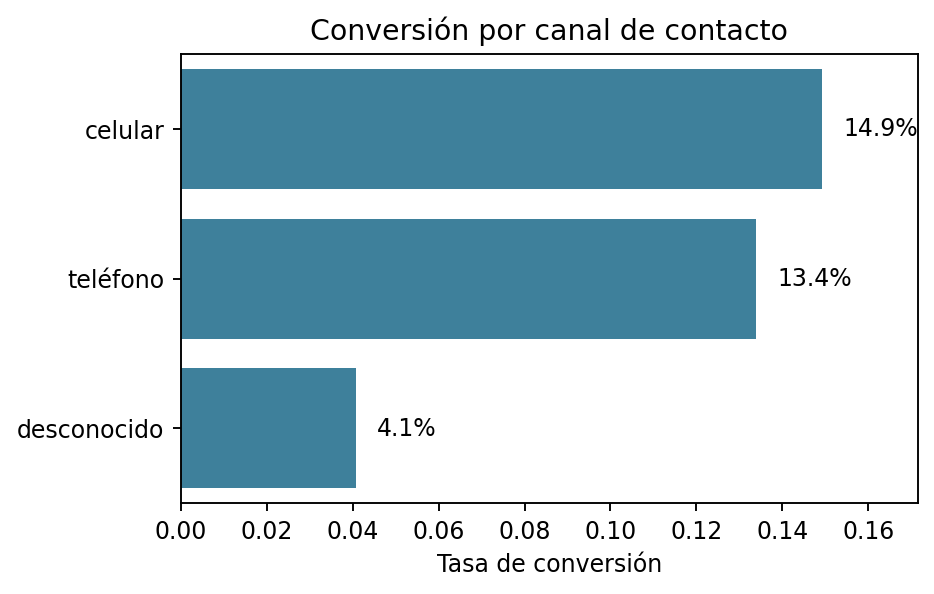
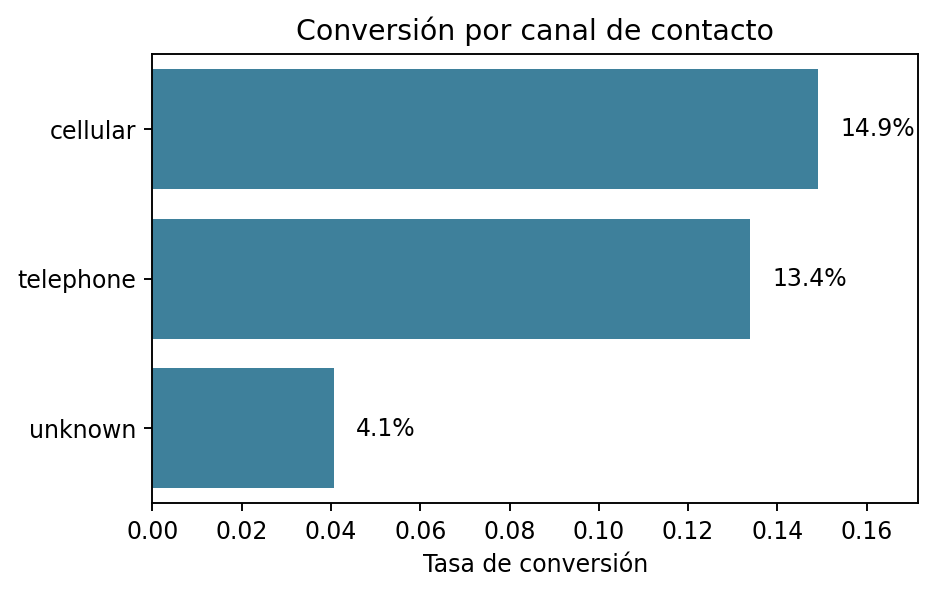
analisis de respuesta de clientes según su ingreso

diff --git a/informe_analisis.html b/informe_analisis.html
@@ -355,12 +355,12 @@
       <article class="card span-4 metric metric-card green">
         <span class="label">Clientes interesados</span>
         <span class="value green">5.285</span>
-        <span class="hint">Clientes con respuesta <strong>yes</strong>.</span>
+        <span class="hint">Clientes con respuesta <strong>"Si"</strong>.</span>
       </article>
       <article class="card span-4 metric metric-card red">
         <span class="label">Clientes no interesados</span>
         <span class="value red">39.904</span>
-        <span class="hint">Clientes con respuesta <strong>no</strong>.</span>
+        <span class="hint">Clientes con respuesta <strong>"No"</strong>.</span>
       </article>
     </section>
 
@@ -373,12 +373,33 @@
       <article class="card metric metric-card orange">
         <span class="label">Tasa de conversión</span>
         <span class="value">11.7%</span>
-        <span class="hint">Solo 1 de cada 9 dijo sí.</span>
+        <span class="hint">Solo 1 de cada 9 clientes dijo sí.</span>
       </article>
       <article class="card metric metric-card">
         <span class="label">Filas finales</span>
         <span class="value">45.189</span>
         <span class="hint">Después de limpiar la base.</span>
+      </article>
+    </section>
+
+     <section class="grid" style="margin-top: 20px;">
+      <article class="card span-12">
+        <span class="badge">Limpieza de datos</span>
+        <h2>¿Qué se hizo con la base?</h2>
+        <div class="cleaning-layout">
+          <div>
+            <ul class="list">
+              <li>Se eliminaron <strong>8</strong> filas con valores nulos.</li>
+              <li>Se eliminaron <strong>4</strong> filas duplicadas.</li>
+              <li>Se filtraron <strong>14</strong> registros con valores poco coherentes.</li>
+              <li>El dataset final quedó con <strong>45.189</strong> filas y <strong>17</strong> columnas. Eliminandose <strong>26 filas</strong> en total.</li>
+            </ul>
+            <p class="note">La gráfica resume el volumen eliminado por cada etapa de limpieza y ayuda a ver rápidamente dónde se hicieron los ajustes más importantes.</p>
+          </div>
+          <figure class="cleaning-figure">
+            <img class="chart small" src="Data/Processed/grafica_limpieza_barras.png" alt="Gráfica de barras con registros eliminados por limpieza" />
+          </figure>
+        </div>
       </article>
     </section>
 
@@ -401,11 +422,37 @@
       </article>
     </section>
 
+  <section class="grid" style="margin-top: 20px;">
+  <article class="card span-12">
+    <span class="badge">Ingresos vs Respuesta</span>
+    <h2>Conversión por rangos de ingresos</h2>
+    <div class="chart-card">
+      <h3>Tasa de conversión según rango de ingresos</h3>
+      <img class="chart" src="Data/Processed/grafica_conversion_rangos_ingresos.png" 
+           alt="Gráfica de conversión por rangos de ingresos" />
+      <p class="note">
+        Esta gráfica muestra cómo varía la tasa de conversión de clientes según su rango de ingresos (balance). 
+        Los intervalos permiten identificar qué segmentos económicos tienen mayor probabilidad de aceptar la oferta del banco. 
+        Por ejemplo, se observa si los clientes con ingresos bajos, medios o altos muestran diferencias significativas en su disposición a responder “Sí”.
+      </p>
+    </div>
+  </article>
+</section>
+
     <section class="grid" style="margin-top: 20px;">
       <article class="card span-12">
         <span class="badge">Tabla de conversión</span>
         <h2>Perfiles laborales con mejor respuesta</h2>
-        <table>
+        <p>Durante el análisis del dataset bancario, se calculó la tasa de conversión por perfil laboral, es decir, el porcentaje de clientes que respondieron afirmativamente a la oferta del producto.</p>
+
+        <p>Los resultados muestran que ciertos perfiles destacan por su mayor disposición a aceptar la propuesta:</p>
+
+        <ul>
+          <li><strong>Estudiantes:</strong> Presentan una tasa de conversión elevada, lo que indica que este grupo es más receptivo a las campañas bancarias. Probablemente se deba a que buscan productos financieros iniciales para comenzar su vida económica.</li>
+          <li><strong>Jubilados:</strong> También muestran una alta conversión. Este segmento suele valorar la seguridad y beneficios adicionales que ofrecen los productos bancarios, lo que los hace más propensos a aceptar.</li>
+          <li><strong>Desempleados:</strong> Muestran una tasa de conversión moderada, lo que indica que este grupo puede ser un objetivo interesante para campañas específicas.</li>
+        </ul></u>
+          <table>
           <thead>
             <tr>
               <th>Perfil laboral</th>
@@ -453,28 +500,6 @@
         </div>
       </article>
     </section>
-
-    <section class="grid" style="margin-top: 20px;">
-      <article class="card span-12">
-        <span class="badge">Limpieza de datos</span>
-        <h2>¿Qué se hizo con la base?</h2>
-        <div class="cleaning-layout">
-          <div>
-            <ul class="list">
-              <li>Se eliminaron <strong>8</strong> filas con valores nulos.</li>
-              <li>Se eliminaron <strong>4</strong> filas duplicadas.</li>
-              <li>Se filtraron <strong>14</strong> registros con valores poco coherentes.</li>
-              <li>El dataset final quedó con <strong>45.189</strong> filas y <strong>17</strong> columnas. Eliminandose <strong>26 filas</strong> en total.</li>
-            </ul>
-            <p class="note">La gráfica resume el volumen eliminado por cada etapa de limpieza y ayuda a ver rápidamente dónde se hicieron los ajustes más importantes.</p>
-          </div>
-          <figure class="cleaning-figure">
-            <img class="chart small" src="Data/Processed/grafica_limpieza_barras.png" alt="Gráfica de barras con registros eliminados por limpieza" />
-          </figure>
-        </div>
-      </article>
-    </section>
-
 
     <section class="grid" style="margin-top: 20px;">
       <article class="card span-12">

diff --git a/taller_pandas.py b/taller_pandas.py
@@ -2,31 +2,27 @@ import pandas as pd
 import matplotlib.pyplot as plt
 import seaborn as sns
 
+print("Librerías cargadas correctamente...")
+
 
 COLUMNAS_CATEGORICAS = [
-    "job",
-    "marital",
-    "education",
-    "default",
-    "housing",
-    "loan",
-    "contact",
-    "month",
-    "poutcome",
-    "y",
+    "job", "marital", "education", "default", "housing",
+    "loan", "contact", "month", "poutcome", "y",
 ]
 
+# -------------------------------
+# Funciones principales
+# -------------------------------
 
 def cargar_datos(ruta_entrada):
     try:
-        return pd.read_csv(ruta_entrada) 
+        return pd.read_csv(ruta_entrada)
     except FileNotFoundError:
         raise FileNotFoundError(f"No se encuentra el archivo: {ruta_entrada}")
 
 
 def normalizar_categoricas(dataframe: pd.DataFrame) -> pd.DataFrame:
     resultado = dataframe.copy()
-
 
     for columna in COLUMNAS_CATEGORICAS:
         if columna in resultado.columns:
@@ -54,11 +50,7 @@ def normalizar_categoricas(dataframe: pd.DataFrame) -> pd.DataFrame:
 
 def filtrar_registros(dataframe):
     resultado = dataframe.copy()
-    reporte = {
-        "eliminadas_por_na": 0,
-        "eliminadas_por_duplicados": 0,
-        "eliminadas_por_filtros": 0,
-    }
+    reporte = {"eliminadas_por_na": 0, "eliminadas_por_duplicados": 0, "eliminadas_por_filtros": 0}
 
     antes = len(resultado)
     resultado = resultado.dropna().copy()
@@ -115,23 +107,28 @@ def guardar_reporte(ruta_reporte, reporte):
 
 
 def crear_graficas_limpieza(reporte_limpieza, filas_iniciales, filas_finales) -> None:
-    eliminadas = pd.Series(
-        {
-            "Nulos": int(reporte_limpieza.get("eliminadas_por_na", 0)),
-            "Duplicados": int(reporte_limpieza.get("eliminadas_por_duplicados", 0)),
-            "Filtros": int(reporte_limpieza.get("eliminadas_por_filtros", 0)),
-        }
-    )
+    eliminadas = pd.Series({
+        "Nulos": int(reporte_limpieza.get("eliminadas_por_na", 0)),
+        "Duplicados": int(reporte_limpieza.get("eliminadas_por_duplicados", 0)),
+        "Filtros": int(reporte_limpieza.get("eliminadas_por_filtros", 0)),
+    })
 
-    # Gráfica de barras pequeña: filas eliminadas por tipo de limpieza
+    total_eliminadas = filas_iniciales - filas_finales
+
     plt.figure(figsize=(5.2, 3.2))
     ax_barras = sns.barplot(x=eliminadas.index, y=eliminadas.values, color="#8b5e3c")
+
     colores = ["#2E86AB", "#D97706", "#C0392B"]
     for barra, color in zip(ax_barras.patches, colores):
         barra.set_color(color)
-    plt.title("Registros eliminados por limpieza")
+
+    plt.title(
+        f"Filas eliminadas: {total_eliminadas} de {filas_iniciales} "
+        f"({total_eliminadas / filas_iniciales:.1%})"
+    )
     plt.xlabel("")
     plt.ylabel("Filas")
+
     for barra in ax_barras.patches:
         valor = int(barra.get_height())
         ax_barras.text(
@@ -142,6 +139,7 @@ def crear_graficas_limpieza(reporte_limpieza, filas_iniciales, filas_finales) ->
             va="bottom",
             fontsize=9,
         )
+
     plt.tight_layout()
     plt.savefig("Data/Processed/grafica_limpieza_barras.png", dpi=170, bbox_inches="tight")
     plt.close()
@@ -160,33 +158,7 @@ def crear_grafica_conversion_segmento(dataframe, columna, ruta_salida, titulo, t
     else:
         conversion = conversion.sort_values("conversion_rate", ascending=False)
 
-    etiquetas_es = {
-        "job": {
-            "student": "estudiante",
-            "retired": "jubilado",
-            "unemployed": "desempleado",
-            "management": "gerencia",
-            "administrative": "administrativo",
-            "self-employed": "autónomo",
-            "unknown": "desconocido",
-            "technician": "técnico",
-        },
-        "contact": {
-            "cellular": "celular",
-            "telephone": "teléfono",
-            "unknown": "desconocido",
-        },
-        "poutcome": {
-            "success": "éxito",
-            "failure": "fracaso",
-            "other": "otro",
-            "unknown": "desconocido",
-        },
-    }
-
-    if columna in etiquetas_es:
-        conversion = conversion.copy()
-        conversion[columna] = conversion[columna].replace(etiquetas_es[columna])
+    
 
     plt.figure(figsize=(5.6, 3.6))
     ax = sns.barplot(data=conversion, x="conversion_rate", y=columna, color="#2E86AB")
@@ -202,6 +174,39 @@ def crear_grafica_conversion_segmento(dataframe, columna, ruta_salida, titulo, t
     plt.tight_layout()
     plt.savefig(ruta_salida, dpi=170, bbox_inches="tight")
     plt.close()
+
+
+def grafica_ingresos_vs_respuesta_rangos(dataframe):
+
+    if "balance" in dataframe.columns and "y" in dataframe.columns:
+        
+        bins = [-2000, 0, 1000, 5000, 10000, 20000, dataframe["balance"].max()]
+        labels = ["<0", "0-1k", "1k-5k", "5k-10k", "10k-20k", "20k+"]
+        dataframe["rango_ingresos"] = pd.cut(dataframe["balance"], bins=bins, labels=labels)
+
+        
+        conversion = (
+            dataframe.assign(is_yes=(dataframe["y"] == "yes").astype(int))
+            .groupby("rango_ingresos")
+            .agg(conversion_rate=("is_yes", "mean"), clientes=("is_yes", "size"))
+            .reset_index()
+        )
+
+        plt.figure(figsize=(8, 5))
+        sns.barplot(x="rango_ingresos", y="conversion_rate", data=conversion, color="#2E86AB")
+        plt.title("Tasa de conversión por rango de ingresos")
+        plt.xlabel("Rango de ingresos (balance)")
+        plt.ylabel("Tasa de conversión")
+        for i, fila in enumerate(conversion["conversion_rate"]):
+            plt.text(i, fila + 0.01, f"{fila:.1%}", ha="center")
+        plt.tight_layout()
+        plt.savefig("Data/Processed/grafica_conversion_rangos_ingresos.png", dpi=160, bbox_inches="tight")
+        plt.close()
+
+
+# -------------------------------
+# Función principal
+# -------------------------------
 
 
 def main() -> None:
@@ -221,36 +226,9 @@ def main() -> None:
     print("\n1) Vista general")
     print(f"Filas iniciales: {resumen_inicial['filas_iniciales']}")
     print(f"Columnas iniciales: {resumen_inicial['columnas_iniciales']}")
-    print(data.head(5))
+    print(data.head(20))
 
     print("\n2) Gráfica de respuesta del cliente")
-    data_respuesta = data.copy()
-    data_respuesta["y_es"] = data_respuesta["y"].replace({"yes": "sí", "no": "no"})
-    plt.figure(figsize=(7, 4))
-    ax_respuesta = sns.countplot(x="y_es", data=data_respuesta, color="#2EAB3B")
-    plt.title("Clientes interesados y no interesados en adquirir el producto")
-    plt.xlabel("Respuesta del cliente")
-    plt.ylabel("Cantidad de clientes")
-    total_clientes = len(data_respuesta)
-    alturas = [barra.get_height() for barra in ax_respuesta.patches]
-    minima = min(alturas)
-    for barra in ax_respuesta.patches:
-        valor = int(barra.get_height())
-        porcentaje = valor / total_clientes * 100
-        if valor == minima:
-            barra.set_color("#C0392B")
-        ax_respuesta.text(
-            barra.get_x() + barra.get_width() / 2,
-            valor / 2,
-            f"{porcentaje:.1f}%",
-            ha="center",
-            va="center",
-            color="white",
-            fontweight="bold",
-        )
-    plt.tight_layout()
-    plt.savefig("Data/Processed/grafica_respuesta_clientes.png", dpi=160, bbox_inches="tight")
-    plt.close()
 
     print("\n3) Limpieza de datos")
     data_limpia = normalizar_categoricas(data)
@@ -263,34 +241,6 @@ def main() -> None:
     crear_graficas_limpieza(reporte_limpieza, resumen_inicial["filas_iniciales"], len(data_limpia))
 
     print("\n4) Gráfica de conversión")
-    conversion_por_trabajo = (
-        data_limpia.assign(is_yes=(data_limpia["y"] == "yes").astype(int))
-        .groupby("job")
-        .agg(conversion_rate=("is_yes", "mean"), clients=("is_yes", "size"))
-        .reset_index()
-        .query("clients >= 100")
-        .sort_values("conversion_rate", ascending=False)
-        .head(8)
-    )
-
-    print("\nTabla de conversión por perfil laboral")
-    print(conversion_por_trabajo.to_string(index=False))
-
-    plt.figure(figsize=(10, 6))
-    ax = sns.barplot(data=conversion_por_trabajo, x="job", y="conversion_rate", color="#2E86AB")
-    plt.title("Tasa de conversión por perfil laboral")
-    plt.xlabel("Perfil laboral")
-    plt.ylabel("Tasa de conversión")
-    plt.ylim(0, max(conversion_por_trabajo["conversion_rate"]) * 1.15)
-
-    for barra in ax.patches:
-        valor = barra.get_height()
-        ax.text(barra.get_x() + barra.get_width() / 2, valor + 0.005, f"{valor:.1%}", ha="center")
-
-    plt.tight_layout()
-    plt.savefig("Data/Processed/grafica_comparativa_conversion.png", dpi=160, bbox_inches="tight")
-    plt.close()
-
     crear_grafica_conversion_segmento(
         data_limpia,
         "job",
@@ -310,9 +260,13 @@ def main() -> None:
         "Data/Processed/grafica_conversion_poutcome.png",
         "Conversión según campaña previa",
     )
-    
 
-    data_limpia.to_csv(ruta_salida, index=False)
+    print("\n5) Conversión por rangos de ingresos (barras)")
+    grafica_ingresos_vs_respuesta_rangos(data_limpia)
+
+    print("\n✅ Dataset limpio con la columna adicional 'rango_ingresos':")
+   
+    print(data_limpia.head(20).to_string())
 
     reporte_final = {
         **resumen_inicial,
@@ -323,7 +277,7 @@ def main() -> None:
     }
     guardar_reporte(ruta_reporte, reporte_final)
 
-    print("\n5) Resultado final")
+    print("\n6) Resultado final")
     print(f"Dataset limpio guardado en: {ruta_salida}")
     print(f"Reporte guardado en: {ruta_reporte}")
     print(f"Tamaño final: {data_limpia.shape}")
